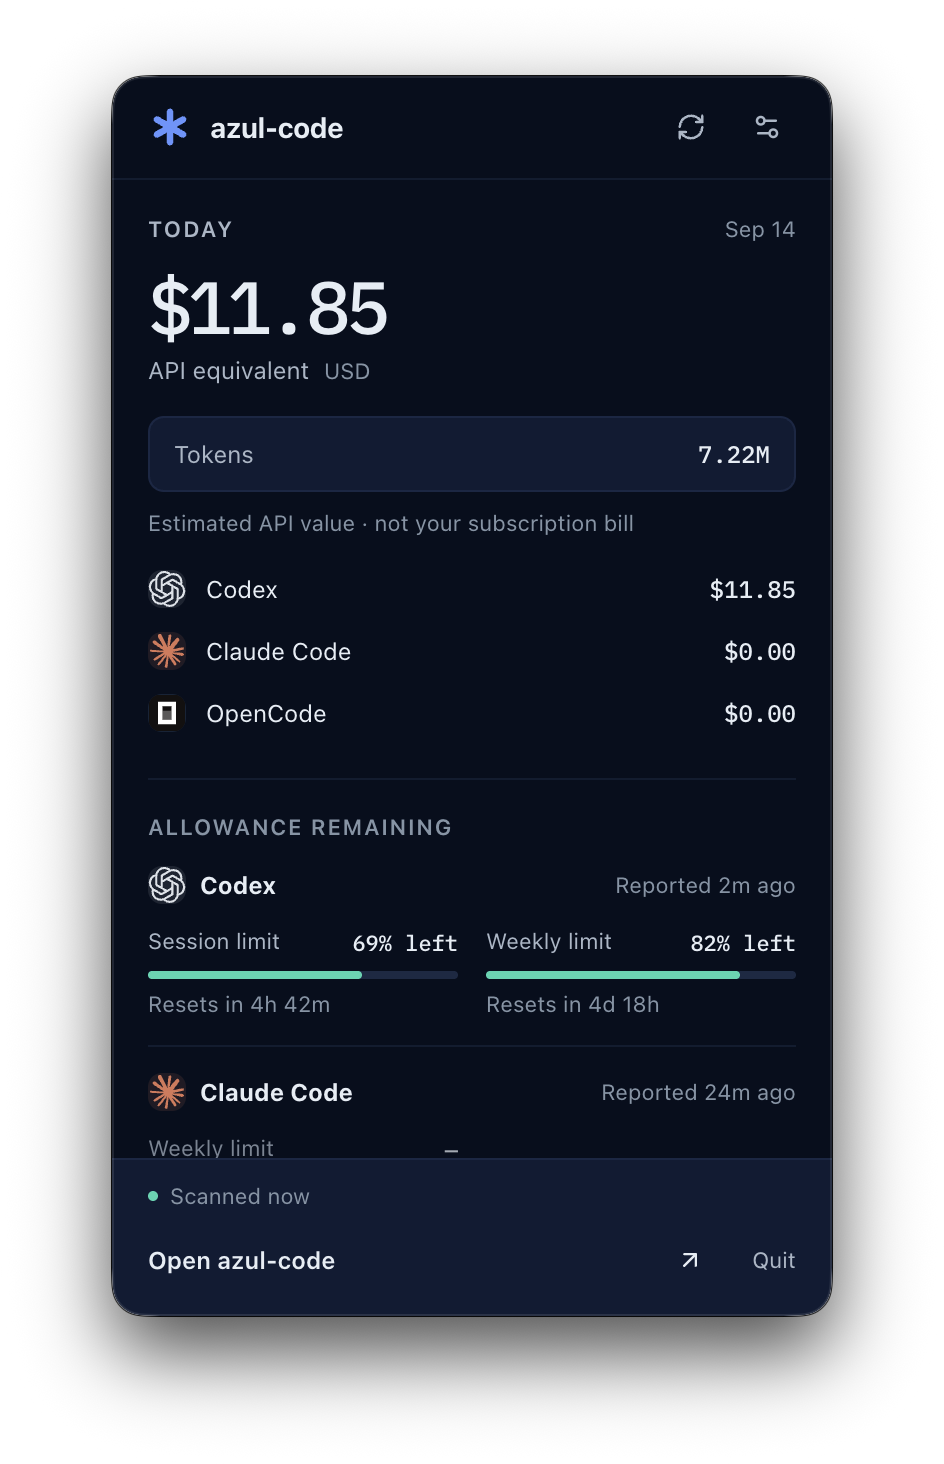
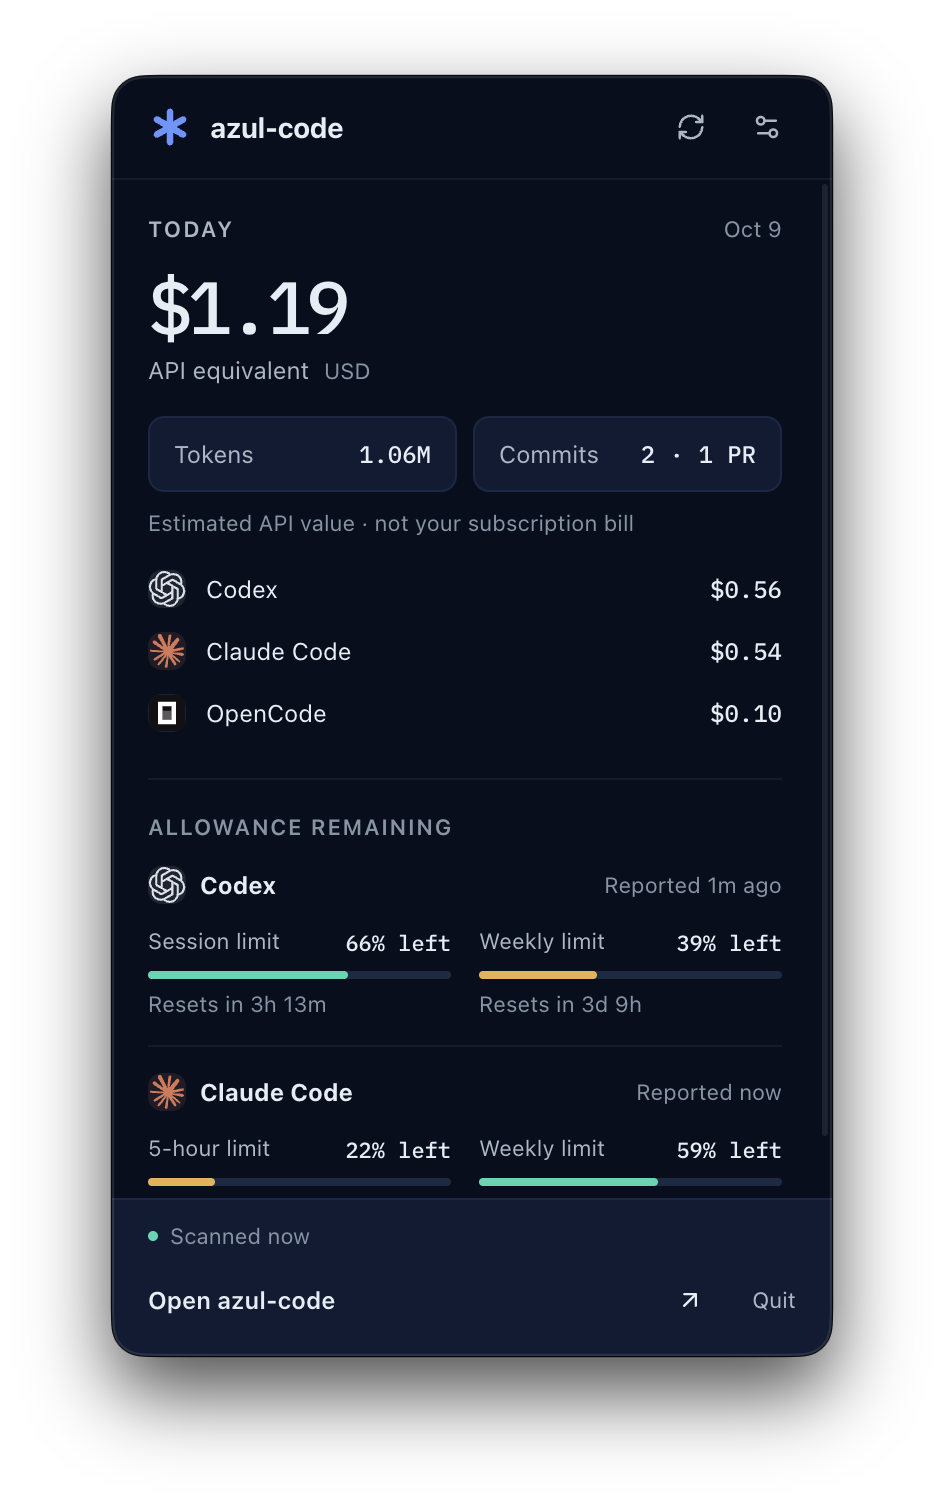
docs: build-on-your-Mac install guide and fresh README screenshots
azul-code is not signed or notarized yet, so downloaded copies are
blocked by Gatekeeper. The README now has an "Install on your Mac"
section: install Git and Node 22, build with npm run dist:mac, and drag
the DMG's app into Applications. A locally built app carries no
quarantine flag, so macOS opens it normally. It also covers updating and
the plan for Developer ID signing and notarized GitHub Releases.
Getting started, troubleshooting, and the release checklist match.

The README screenshots are retaken from the browser preview's demo data,
so they show the current UI with no real usage, paths, or repositories,
and gain a Contributions view. scripts/capture-readme-screenshots.cjs
retakes them.

diff --git a/README.md b/README.md
@@ -7,6 +7,7 @@
 <p align="center">A local-first macOS dashboard for AI coding usage, subscription allowances, and GitHub contributions.</p>
 <p align="center">
   <a href="LICENSE">MIT</a> ·
+  <a href="#install-on-your-mac">Install</a> ·
   <a href="docs/getting-started.md">Getting started</a> ·
   <a href="docs/index.md">Documentation</a> ·
   <a href="CONTRIBUTING.md">Contributing</a>
@@ -23,9 +24,9 @@ Local usage analytics need no account or API key. Usage history stays on your Ma
 - **Overview & Plans:** remaining subscription allowance, reset times, usage pace, and API-equivalent cost.
 - **Models:** token totals, cache efficiency, and estimated cost by model.
 - **Projects & Sessions:** workspace breakdowns, a searchable session ledger, and 7-day, 30-day, 90-day, or all-time ranges.
-- **Contributions:** monthly GitHub commits and pull requests, a daily heat grid, project totals, and a copyable invoice summary.
+- **Contributions:** monthly GitHub commits and pull requests beside each day's AI spend, your streak, AI cost per commit, when you usually ship, per-project totals, and a copyable invoice summary.
 - **Menu bar:** today's usage and remaining allowance without keeping the dashboard open.
-- **Settings:** data-source health, system checks, resource diagnostics, six accent colors, and dark, light, or system appearance.
+- **Settings:** data-source health, system checks, resource diagnostics, model prices kept current from [models.dev](https://models.dev), six accent colors or a custom one, and dark, light, or system appearance.
 
 <details>
 <summary><strong>Explore the Models view</strong></summary>
@@ -34,7 +35,14 @@ Local usage analytics need no account or API key. Usage history stays on your Ma
 
 </details>
 
-Screenshots show one local installation. Model availability, allowances, and estimates vary by provider and recorded usage.
+<details>
+<summary><strong>Explore the Contributions view</strong></summary>
+
+![azul-code Contributions showing a month of commits and pull requests above each day's AI spend, with streak, AI cost per commit, and a day-by-day ledger](docs/images/contributions.png)
+
+</details>
+
+Screenshots use the app's built-in demo data, not a real account. Model availability, allowances, and estimates vary by provider and recorded usage.
 
 ## In your menu bar
 
@@ -46,18 +54,58 @@ Keep today's API-equivalent cost, token totals, provider breakdown, and remainin
 
 Choose cost, allowance, both, or icon only in **Settings → Menu bar**. Closing the dashboard keeps the companion running; **Quit azul-code** exits the app.
 
-## Get started
+## Install on your Mac
 
-**Requirements:** macOS, Node.js 22.12 or newer within Node 22, and npm. An [`.nvmrc`](.nvmrc) is included for Node version managers. Agent tools are optional; real analytics appear when supported local usage files exist.
+**azul-code is not yet signed or notarized by Apple, so there is no download to install.** macOS blocks unsigned apps downloaded from the internet, often reporting that the app "is damaged and can't be opened." You build azul-code on your own Mac instead: apps you build locally are not marked as downloaded, so macOS opens them normally. It takes a few minutes and needs no Apple account or security setting changes.
+
+### 1. Install the requirements
+
+- **macOS** on Apple Silicon or Intel. The build targets your Mac's own architecture.
+- **Git.** Run `git --version`; if it is missing, macOS offers to install the Command Line Tools (or run `xcode-select --install`).
+- **Node.js 22**, version 22.12 or newer, which includes npm. Node 22 is the version CI tests; newer releases currently build azul-code too, but npm prints an `EBADENGINE` warning and they are not tested. Install Node 22 with one of:
+  - [nvm](https://github.com/nvm-sh/nvm): after cloning in step 2, run `nvm install` in that folder; it reads the included [`.nvmrc`](.nvmrc).
+  - [Homebrew](https://brew.sh): `brew install node@22`, then follow its instructions to add it to your `PATH`.
+  - The macOS installer for the latest Node 22 release from [nodejs.org](https://nodejs.org/en/download).
+
+Check with `node --version`; it should print `v22.x.x`. Node is only needed to build azul-code; the installed app does not use it.
+
+### 2. Build and install
 
 ```bash
 git clone https://github.com/l-velazquez/ai-codeing-stats.git
 cd ai-codeing-stats
 npm ci
-npm run dev
+npm run dist:mac
+open release/azul-code-*.dmg
 ```
 
-The repository name is currently `ai-codeing-stats`; the app is named **azul-code**.
+Drag **azul-code** into **Applications**, then open it from Applications or Spotlight. The repository is named `ai-codeing-stats`; the app is **azul-code**.
+
+### Update
+
+Quit azul-code (**Quit azul-code** in the menu bar panel), then from the cloned folder:
+
+```bash
+git pull
+npm ci
+npm run dist:mac
+open "$(ls -t release/*.dmg | head -1)"
+```
+
+The last line opens the newest DMG, since `release/` keeps older builds. Replace the app in Applications. Your settings live in `~/Library/Application Support/azul-code/` and carry over.
+
+### What's next for installation
+
+Signed, notarized downloads are planned: azul-code will be signed with an Apple Developer ID and notarized by Apple, then published as a DMG on GitHub Releases that opens like any other Mac app. Until then, build it yourself as above. A DMG built on another Mac and then downloaded or AirDropped to yours is blocked for the same reason; please don't work around that by disabling Gatekeeper.
+
+## Run in development
+
+To work on azul-code itself, run it straight from the source:
+
+```bash
+npm ci
+npm run dev
+```
 
 For a browser preview with generated data:
 
@@ -67,7 +115,7 @@ npm run dev:web
 
 Open `http://localhost:4317`. See [preview states](docs/development.md#browser-preview) for empty, waiting, and error scenarios.
 
-### Connect your tools
+## Connect your tools
 
 | Tool | Local usage source | Allowance support |
 | --- | --- | --- |
@@ -79,7 +127,7 @@ Claude allowance setup installs a local status-line wrapper and updates `~/.clau
 
 For **Contributions**, install [GitHub CLI](https://cli.github.com/) and run `gh auth login`. You can also launch the app with `GITHUB_TOKEN` or `GH_TOKEN` in its environment. GitHub is optional; see [setup and coverage](docs/getting-started.md#connect-github).
 
-### About the dollar amounts
+## About the dollar amounts
 
 **API-equivalent cost is an estimate, not your subscription bill.** It represents recorded token usage at public API list prices, kept current from [models.dev](https://models.dev) (you can turn this off in Settings to use only the bundled prices). Unknown models stay visible and are marked as partially priced. Cache handling and provider reporting can affect totals; see [data and calculations](docs/data-and-calculations.md).
 
@@ -94,13 +142,7 @@ npm run build
 
 The build runs TypeScript checks and verifies the preload bundle and required assets. GitHub Actions runs tests and the production build on macOS; Dependabot checks dependency updates.
 
-Create a local macOS package:
-
-```bash
-npm run dist:mac
-```
-
-DMG and ZIP artifacts are written to `release/` for the build machine's architecture. **Packaging alone does not sign or notarize a release.** See the [public release checklist](docs/releasing.md) before distributing installers. There is no configured automatic-update service.
+`npm run dist:mac` writes DMG and ZIP packages to `release/` for the build machine's architecture. **Packaging does not sign or notarize them**, so they are for installing on the Mac that built them, not for sharing. See the [public release checklist](docs/releasing.md) for the signing plan. There is no automatic-update service yet; updating means rebuilding (see [Update](#update)).
 
 ## Documentation
 

diff --git a/docs/getting-started.md b/docs/getting-started.md
@@ -4,13 +4,29 @@
 
 ## Requirements
 
-The supported desktop target is macOS. Development uses Node.js 22 (minimum 22.12) and npm. `.nvmrc` selects Node 22. Use `npm ci` to reproduce the locked dependency tree.
+The supported desktop target is macOS on Apple Silicon or Intel. Building needs Git and Node.js 22 (minimum 22.12) with npm. Node 22 is what CI tests; newer versions currently build too but print an `EBADENGINE` warning and are untested; `.nvmrc` selects Node 22, and `npm ci` reproduces the locked dependency tree. The [README](../README.md#1-install-the-requirements) lists ways to install Node. Node is only needed to build; the installed app does not use it.
 
 Agent CLIs are optional for launching azul-code. Usage appears only when supported local agent files exist. OpenCode ingestion additionally invokes `sqlite3`. GitHub access is optional and separate from local usage; the Contributions page does not need the `git` executable.
 
+## Install on your Mac
+
+azul-code is not yet signed with an Apple Developer ID or notarized, so there is no installer to download: macOS blocks unsigned apps that arrive from the internet. Build it on the Mac that will run it. A locally built app carries no quarantine flag, so Gatekeeper does not check it and it opens normally.
+
+```bash
+git clone https://github.com/l-velazquez/ai-codeing-stats.git
+cd ai-codeing-stats
+npm ci
+npm run dist:mac
+open release/azul-code-*.dmg
+```
+
+Drag azul-code into Applications. This typechecks, builds, verifies required bundles and assets, and packages a DMG and ZIP for your Mac's architecture in `release/`. The packages carry only an ad-hoc signature, so they are for this Mac; a copy downloaded or AirDropped to another Mac is blocked. To update, quit azul-code, run `git pull`, `npm ci`, and `npm run dist:mac`, then install the newest DMG in `release/` over the old app. Preferences in `~/Library/Application Support/azul-code/` are kept.
+
+Signed and notarized downloads on GitHub Releases are planned; [the release checklist](releasing.md) covers what that requires.
+
 ## Run from source
 
-From the repository root:
+To develop azul-code, run it without packaging. From the repository root:
 
 ```bash
 npm ci
@@ -47,13 +63,5 @@ gh auth login
 Then refresh Contributions. Alternatively, launch the app from an environment containing `GITHUB_TOKEN` or `GH_TOKEN`. The app must inherit that environment; a Finder launch may not inherit variables from your shell. Do not put credentials in the repository or documentation.
 
 The app uses GitHub API reads with your existing access. See [coverage and limits](data-and-calculations.md#github-contributions) if the results differ from GitHub's profile contribution graph.
-
-## Build a desktop package
-
-```bash
-npm run dist:mac
-```
-
-This typechecks, builds, verifies required bundles/assets, and creates DMG and ZIP artifacts in `release/`. Open the DMG and install the app in Applications. A successful build alone is not evidence that an artifact is signed or notarized. Follow the [release checklist](releasing.md) before distributing installers.
 
 Development and packaged runs normally share preferences under `~/Library/Application Support/azul-code/`.

diff --git a/docs/troubleshooting.md b/docs/troubleshooting.md
@@ -4,6 +4,9 @@
 
 | Symptom | What to check |
 | --- | --- |
+| "azul-code is damaged and can't be opened" or "Apple could not verify azul-code" | The app was downloaded or copied from another Mac. It is not signed yet, so build it on this Mac instead ([install steps](getting-started.md#install-on-your-mac)) |
+| `npm ci` warns `EBADENGINE`, or the build fails on an unusual Node version | Use the tested Node 22 (22.12 or newer): run `node --version`, then `nvm install` in the repository or install Node 22 another way |
+| `npm run dist:mac` prints "0 valid identities found" | Expected: there is no signing identity yet, and the package gets an ad-hoc signature that is fine on the Mac that built it |
 | No usage appears | Open Settings → Data sources, run an agent session under the same macOS user, refresh, and try All |
 | CLI is installed but source is missing | CLI discovery and history discovery are separate; verify the fixed source paths in the data reference |
 | Connected source has no records | Empty/unsupported transcripts can still be connected; agent schema changes or a date filter can exclude records |

diff --git a/docs/development.md b/docs/development.md
@@ -37,6 +37,16 @@ The browser bridge supplies generated data when Electron's bridge is absent. Use
 
 Browser previews cannot verify native tray behavior, real filesystem ingestion, or the Electron preload. Use desktop checks for those boundaries.
 
+### README screenshots
+
+The images in `docs/images/` are captured from the populated demo, so they contain no real usage, paths, or repositories. With `npm run dev:web` running, retake them with:
+
+```bash
+env -u ELECTRON_RUN_AS_NODE npx electron scripts/capture-readme-screenshots.cjs
+```
+
+The script opens each page in a framed window and captures it, shadow included, with macOS `screencapture`, which needs Screen Recording permission for your terminal. Review the results before committing.
+
 ## Verification
 
 For application changes, run:

diff --git a/docs/releasing.md b/docs/releasing.md
@@ -50,7 +50,7 @@ For local testing only:
 npm run dist:mac
 ```
 
-This creates DMG/ZIP artifacts for the current machine's architecture in `release/`. An unsigned build is not a notarized release. The repository has no automated signing/notarization or release-upload workflow and no automatic updater.
+This creates DMG/ZIP artifacts for the current machine's architecture in `release/`. An unsigned build is not a notarized release. Until Developer ID signing and notarization are in place, the README tells people to build and install azul-code on their own Mac rather than download an installer; do not publish unsigned DMGs as release downloads. The repository has no automated signing/notarization or release-upload workflow and no automatic updater.
 
 For public installer distribution:
 
